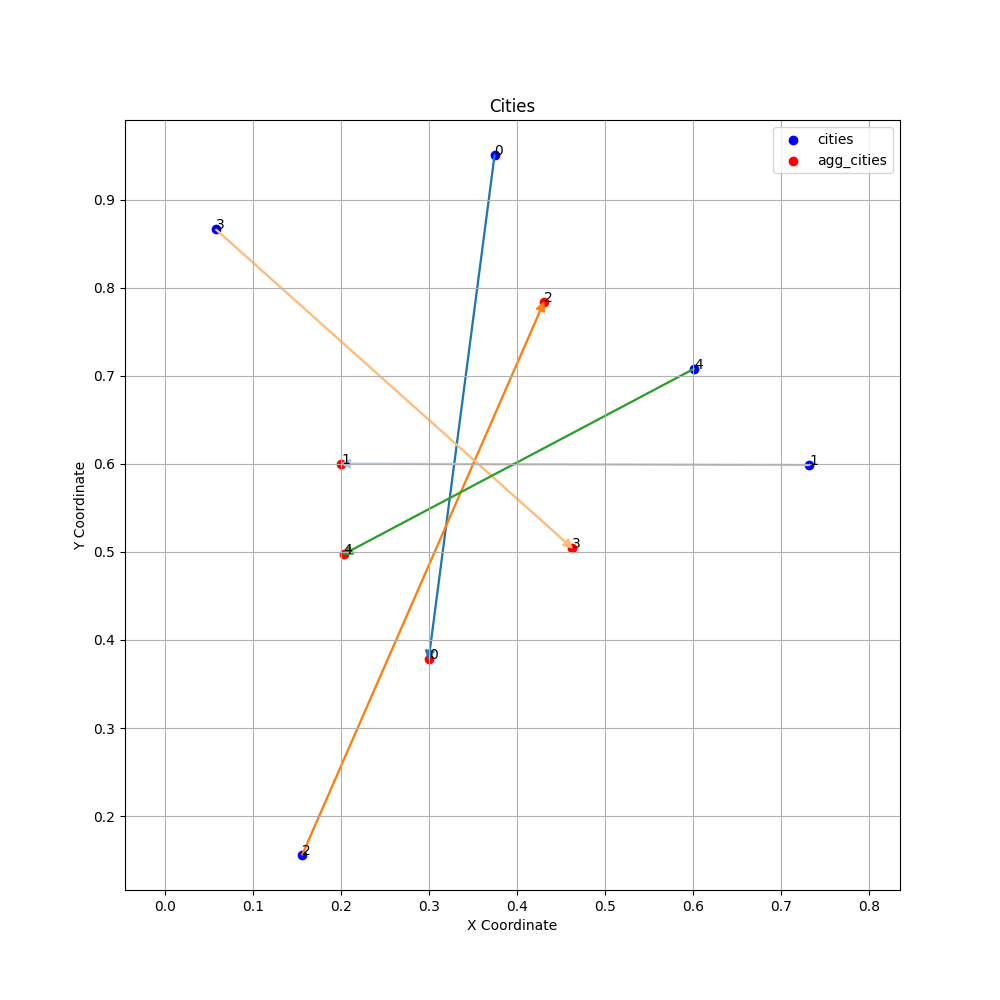
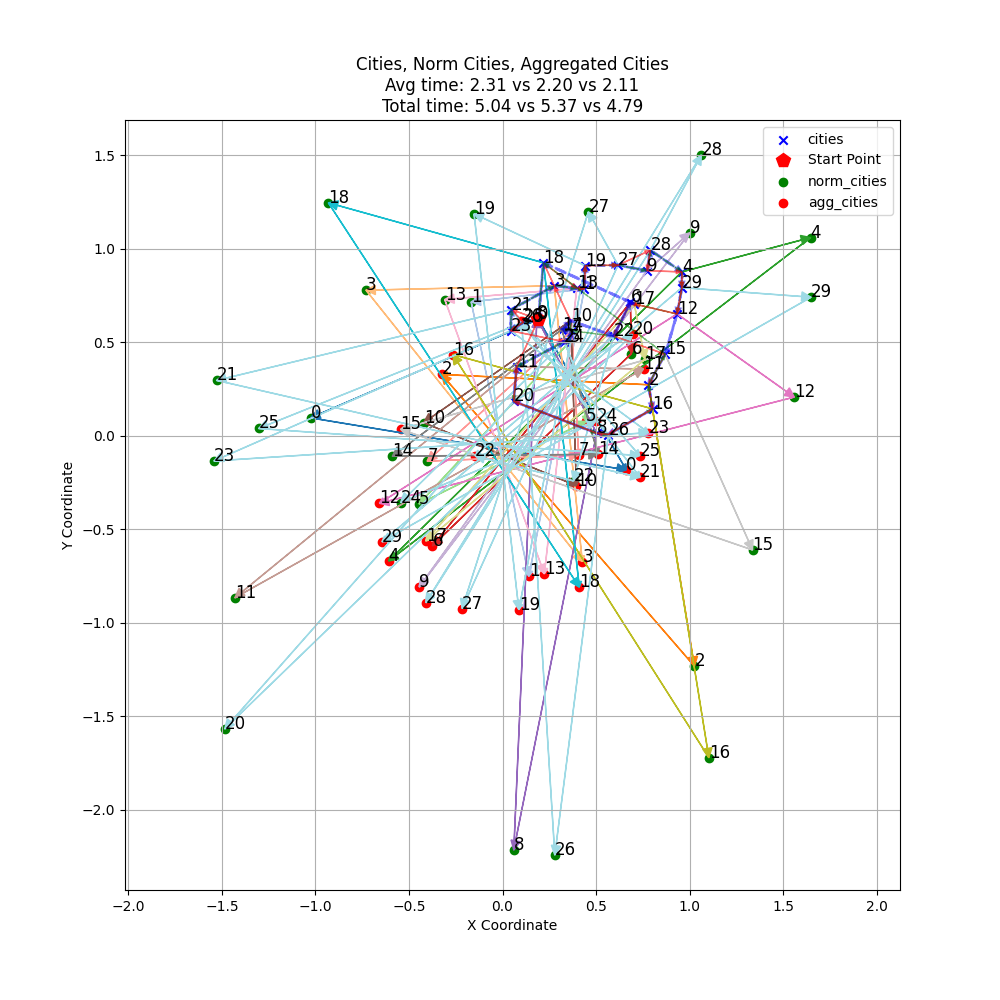
test neighbor agg

diff --git a/test.py b/test.py
@@ -1,43 +1,112 @@
-from method import softmax, normalize, neighbor_aggregation, calculate_distance_matrix
+from method import (
+    neighbor_aggregation, 
+    calculate_distance_matrix,
+    calc_avg_time,
+    solve,
+    normalize,
+    TSPMethod,
+)
 import numpy as np
 
 # 生成随机城市坐标
-np.random.seed(42)
-num_cities = 5
+np.random.seed(1234)
+num_cities = 30
 cities = np.random.rand(num_cities, 2)
 distance_matrix_city = calculate_distance_matrix(cities)
-agg_cities = neighbor_aggregation(cities)
+
+norm_cities = normalize(cities, axis=0)
+distance_matrix_norm_city = calculate_distance_matrix(norm_cities)
+
+agg_cities = neighbor_aggregation(norm_cities)
 distance_matrix_agg_city = calculate_distance_matrix(agg_cities)
-print(distance_matrix_city)
-print(distance_matrix_agg_city)
-print(distance_matrix_agg_city - distance_matrix_city)
+
+route0 = solve(distance_matrix_city, TSPMethod.NEAREST_NEIGHBOR)
+route1 = solve(distance_matrix_norm_city, TSPMethod.NEAREST_NEIGHBOR)
+route2 = solve(distance_matrix_agg_city, TSPMethod.NEAREST_NEIGHBOR)
+avg_time0, total_time0 = calc_avg_time(route0, distance_matrix_city)
+avg_time1, total_time1 = calc_avg_time(route1, distance_matrix_city)
+avg_time2, total_time2 = calc_avg_time(route2, distance_matrix_city)
 
 # plot cities
 import matplotlib
 import matplotlib.pyplot as plt
 colors = matplotlib.colormaps['tab20'] 
 plt.figure(figsize=(10, 10))
-plt.scatter(cities[:, 0], cities[:, 1], c='blue', label='cities')
+plt.scatter(cities[:, 0], cities[:, 1], c='blue', label='cities', marker='x')
+plt.plot(cities[0][0], cities[0][1], 'rp', markersize=10, label='Start Point')
 for i, city in enumerate(cities):
-    plt.annotate(f'{i}', city)
+    plt.annotate(f'{i}', city, fontsize=12)
 
-plt.scatter(agg_cities[:, 0], agg_cities[:, 1], c='red', label='agg_cities')
+plt.scatter(norm_cities[:, 0], norm_cities[:, 1], c='green', label='norm_cities', marker='o')
+for i, city in enumerate(norm_cities):
+    plt.annotate(f'{i}', city, fontsize=12)
+
+plt.scatter(agg_cities[:, 0], agg_cities[:, 1], c='red', label='agg_cities', marker='o')
 for i, city in enumerate(agg_cities):
-    plt.annotate(f'{i}', city)
+    plt.annotate(f'{i}', city, fontsize=12)
+
 
 # plot arrows from cities to agg_cities
-for idx, (city, agg_city) in enumerate(zip(cities, agg_cities)):
+for idx, (city, norm_city, agg_city) in enumerate(zip(cities, norm_cities, agg_cities)):
+    plt.arrow(
+        city[0], city[1], 
+        norm_city[0] - city[0], 
+        norm_city[1] - city[1], 
+        head_width=0.05, 
+        head_length=0.05, 
+        length_includes_head=True, 
+        color=colors(idx)
+    )
+    plt.arrow(
+        norm_city[0], norm_city[1], 
+        agg_city[0] - norm_city[0], 
+        agg_city[1] - norm_city[1], 
+        head_width=0.05, 
+        head_length=0.05, 
+        length_includes_head=True, 
+        color=colors(idx)
+    )
     plt.arrow(
         city[0], city[1], 
         agg_city[0] - city[0], 
         agg_city[1] - city[1], 
-        head_width=0.01, 
-        head_length=0.01, 
+        head_width=0.03, 
+        head_length=0.03, 
         length_includes_head=True, 
         color=colors(idx)
     )
 
-plt.title('Cities')
+# plot route
+for i in range(len(route0) - 1):
+    start, end = route0[i], route0[i + 1]
+    plt.arrow(
+        cities[start, 0], cities[start, 1], 
+        cities[end, 0] - cities[start, 0], 
+        cities[end, 1] - cities[start, 1],
+        head_width=0.02, length_includes_head=True, color='blue', 
+        linestyle='--', linewidth=2, alpha=0.5
+    )
+    start, end = route1[i], route1[i + 1]
+    plt.arrow(
+        cities[start, 0], cities[start, 1], 
+        cities[end, 0] - cities[start, 0], 
+        cities[end, 1] - cities[start, 1],
+        head_width=0.02, length_includes_head=True, color='green', 
+        linestyle='-.', linewidth=1, alpha=0.5
+    )  
+    start, end = route2[i], route2[i + 1]
+    plt.arrow(
+        cities[start, 0], cities[start, 1], 
+        cities[end, 0] - cities[start, 0], 
+        cities[end, 1] - cities[start, 1],
+        head_width=0.02, length_includes_head=True, color='red',
+        linestyle='-', linewidth=1, alpha=0.5
+    )    
+
+metric1 = f'Avg time: {avg_time0:.2f} vs {avg_time1:.2f} vs {avg_time2:.2f}'
+metric2 = f'Total time: {total_time0:.2f} vs {total_time1:.2f} vs {total_time2:.2f}'
+plt.title(f'Cities, Norm Cities, Aggregated Cities\n{metric1}\n{metric2}')
+# plt.title(f'Cities, Norm Cities, Aggregated Cities')
 plt.legend()
 plt.axis('equal')
 plt.xlabel('X Coordinate')

diff --git a/method/utils.py b/method/utils.py
@@ -11,10 +11,11 @@ __all__ = [
     'neighbor_aggregation',
     'softmax',
     'normalize',
+    'calc_avg_time',
 ]
 
 def neighbor_aggregation(x:np.ndarray) -> np.ndarray:
-    dist_matrix = euclidean_distance(x, x)
+    dist_matrix = cdist(x, x, metric='euclidean')
     dist_matrix = softmax(dist_matrix, axis=-1)
     return dist_matrix @ x
 
@@ -35,6 +36,19 @@ def calculate_total_distance(
         distance_matrix: np.ndarray
     ) -> float:
     return sum(distance_matrix[tour[i], tour[i + 1]] for i in range(len(tour) - 1))
+
+def calc_avg_time(
+        tour:List[int], 
+        distance_matrix:np.ndarray
+    ) -> Tuple[float, float]:
+    arrival_time = {i: 0 for i in range(distance_matrix.shape[0])}
+    total_time = 0
+    for i in range(len(tour) - 1):
+        start, end = tour[i], tour[i + 1]
+        total_time = arrival_time[start] + distance_matrix[start, end]
+        arrival_time[end] = total_time
+    avg_time = np.mean(list(arrival_time.values()))
+    return avg_time, total_time
 
 def calculate_distance_matrix(cities: np.ndarray) -> np.ndarray:
     return euclidean_distance(cities, cities)

diff --git a/tmp.py b/tmp.py
@@ -1,0 +1,17 @@
+import numpy as np
+from method import normalize
+data = np.random.uniform(size=(5, 2)).astype(np.float32)
+
+
+
+mean = data.mean(axis=0, keepdims=True)
+std = data.std(axis=0, keepdims=True)
+
+print(data)
+print(mean)
+print(std)
+data_norm = (data - mean) / std
+print(data_norm)
+
+print(data_norm.mean(axis=0, keepdims=True))
+print(data_norm.std(axis=0, keepdims=True))

diff --git a/demo.py b/demo.py
@@ -25,7 +25,7 @@ def main():
     data = np.random.uniform(size=(dataset_size, tsp_size, 2)).astype(np.float32)
 
     pbar = tqdm(total=dataset_size, desc='Processing', dynamic_ncols=True)
-    scale_num = 30
+    scale_num = 50
     result_list = []
     agg_result_list = []
     for i in range(dataset_size):
